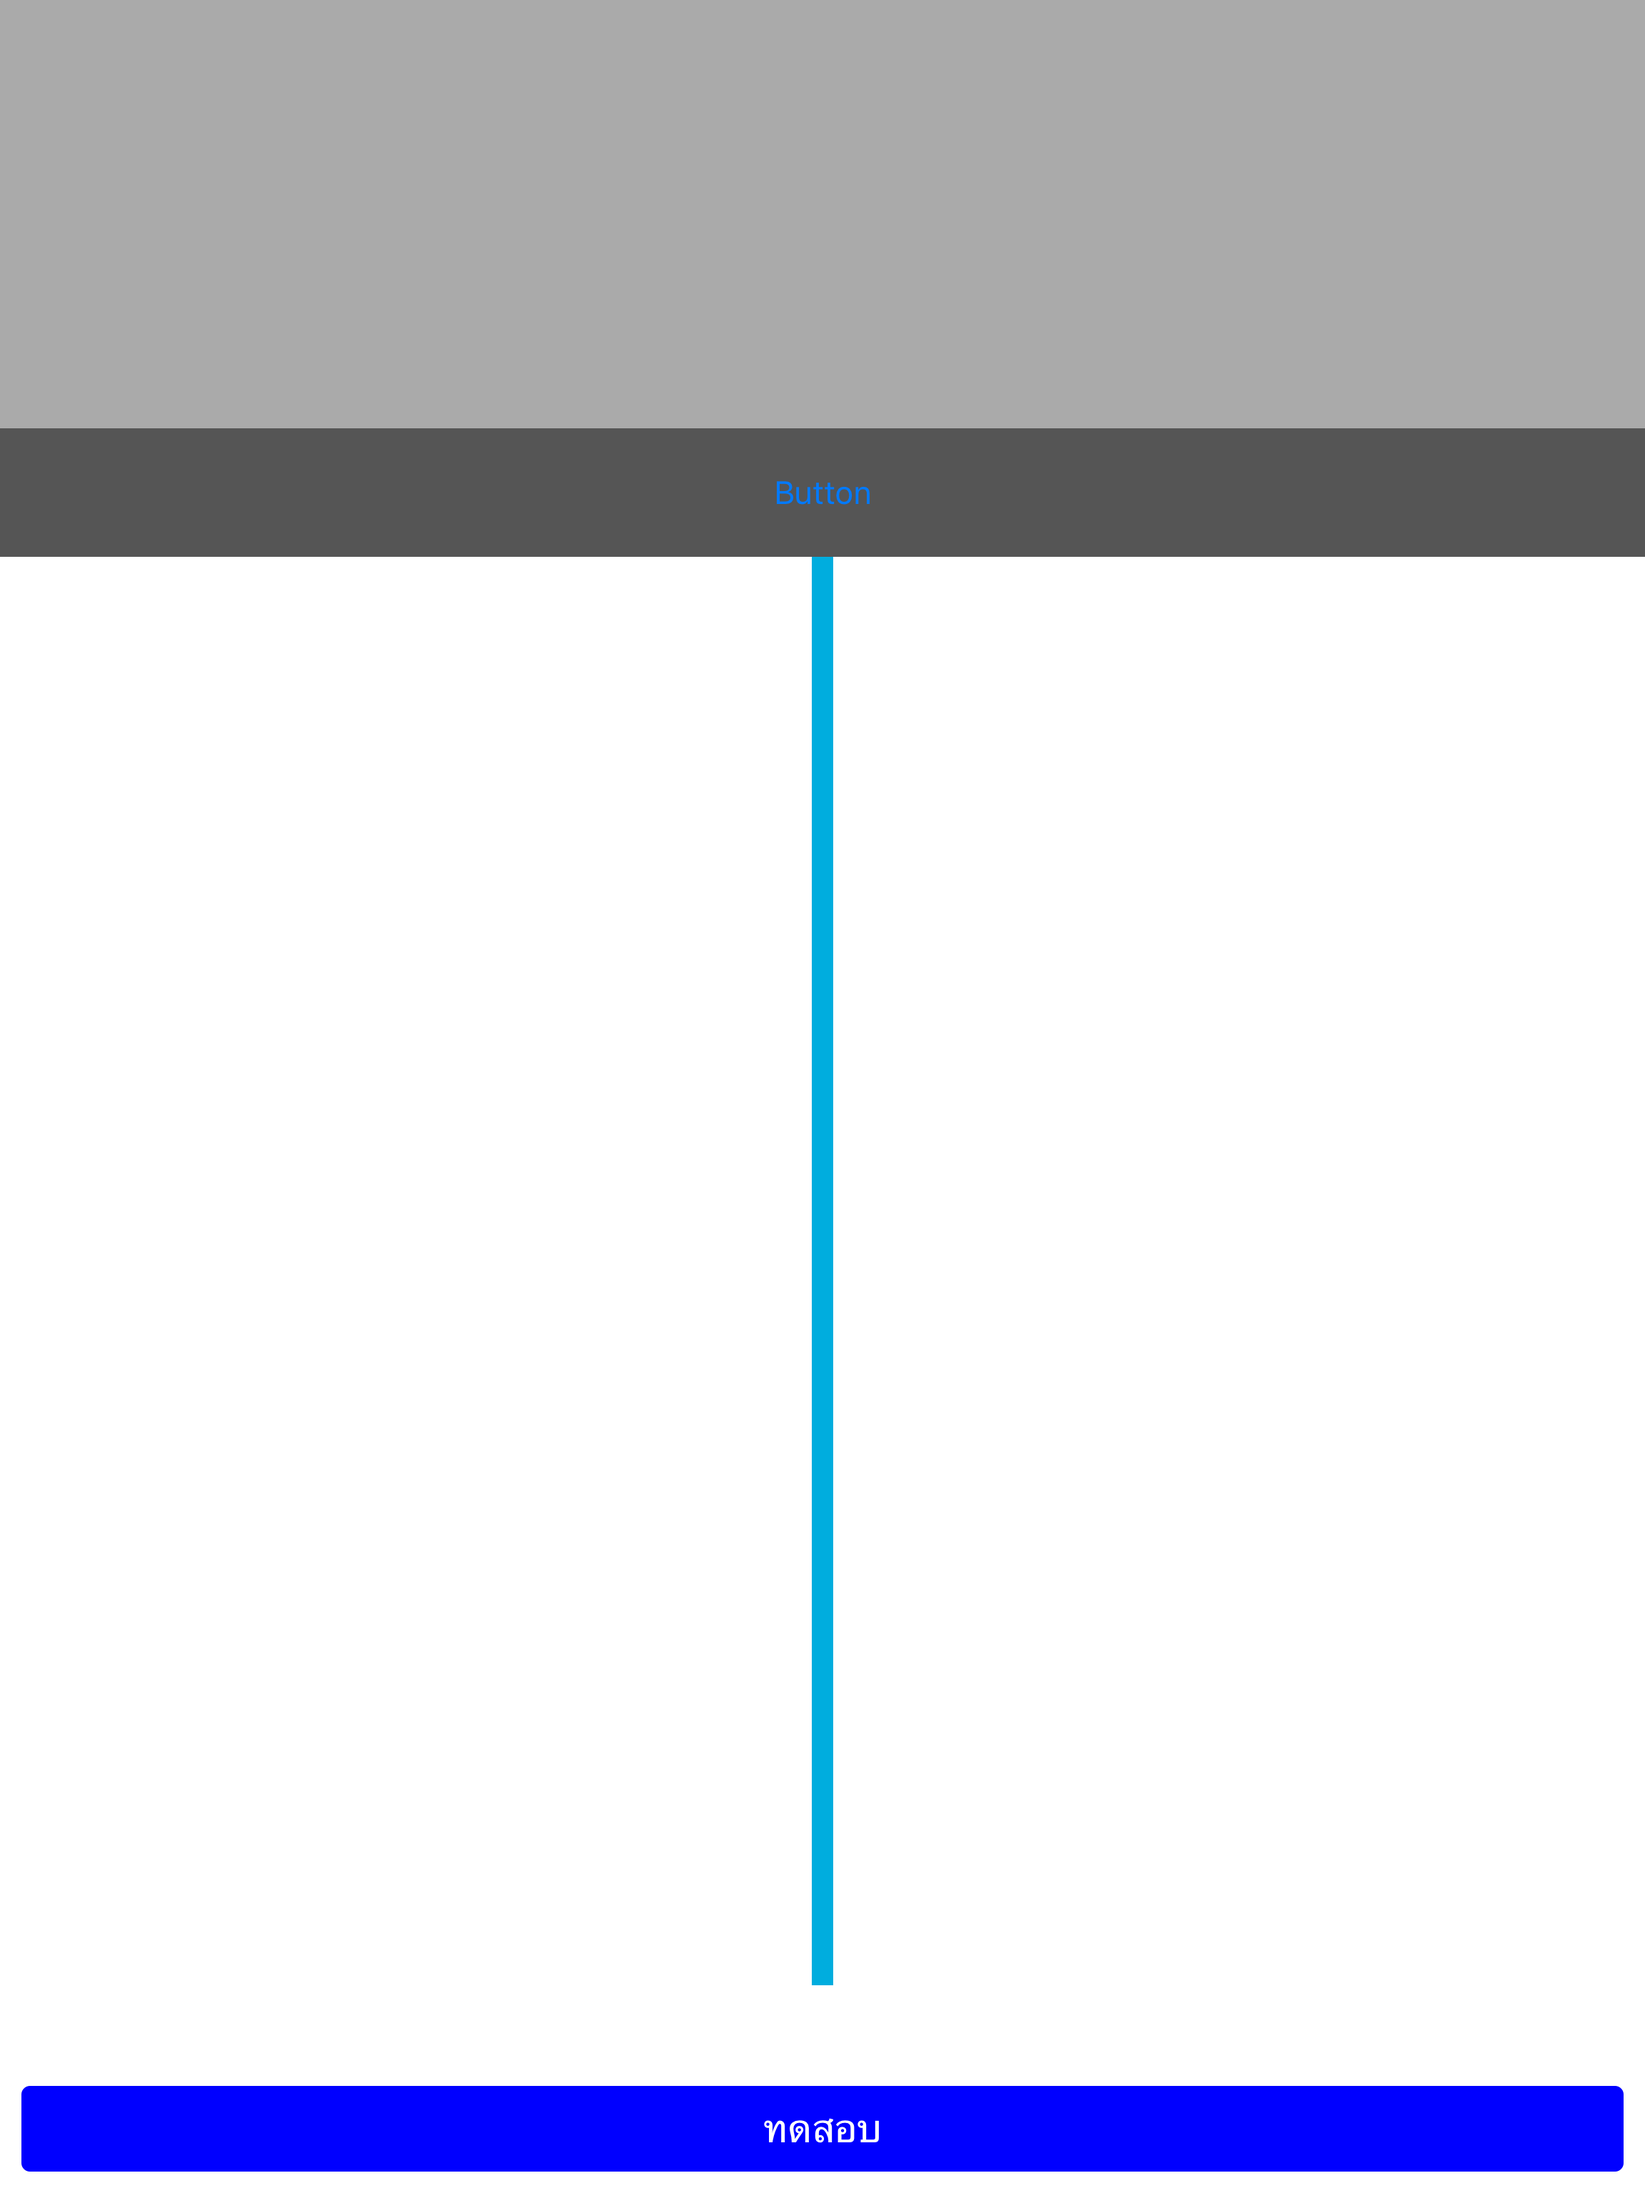
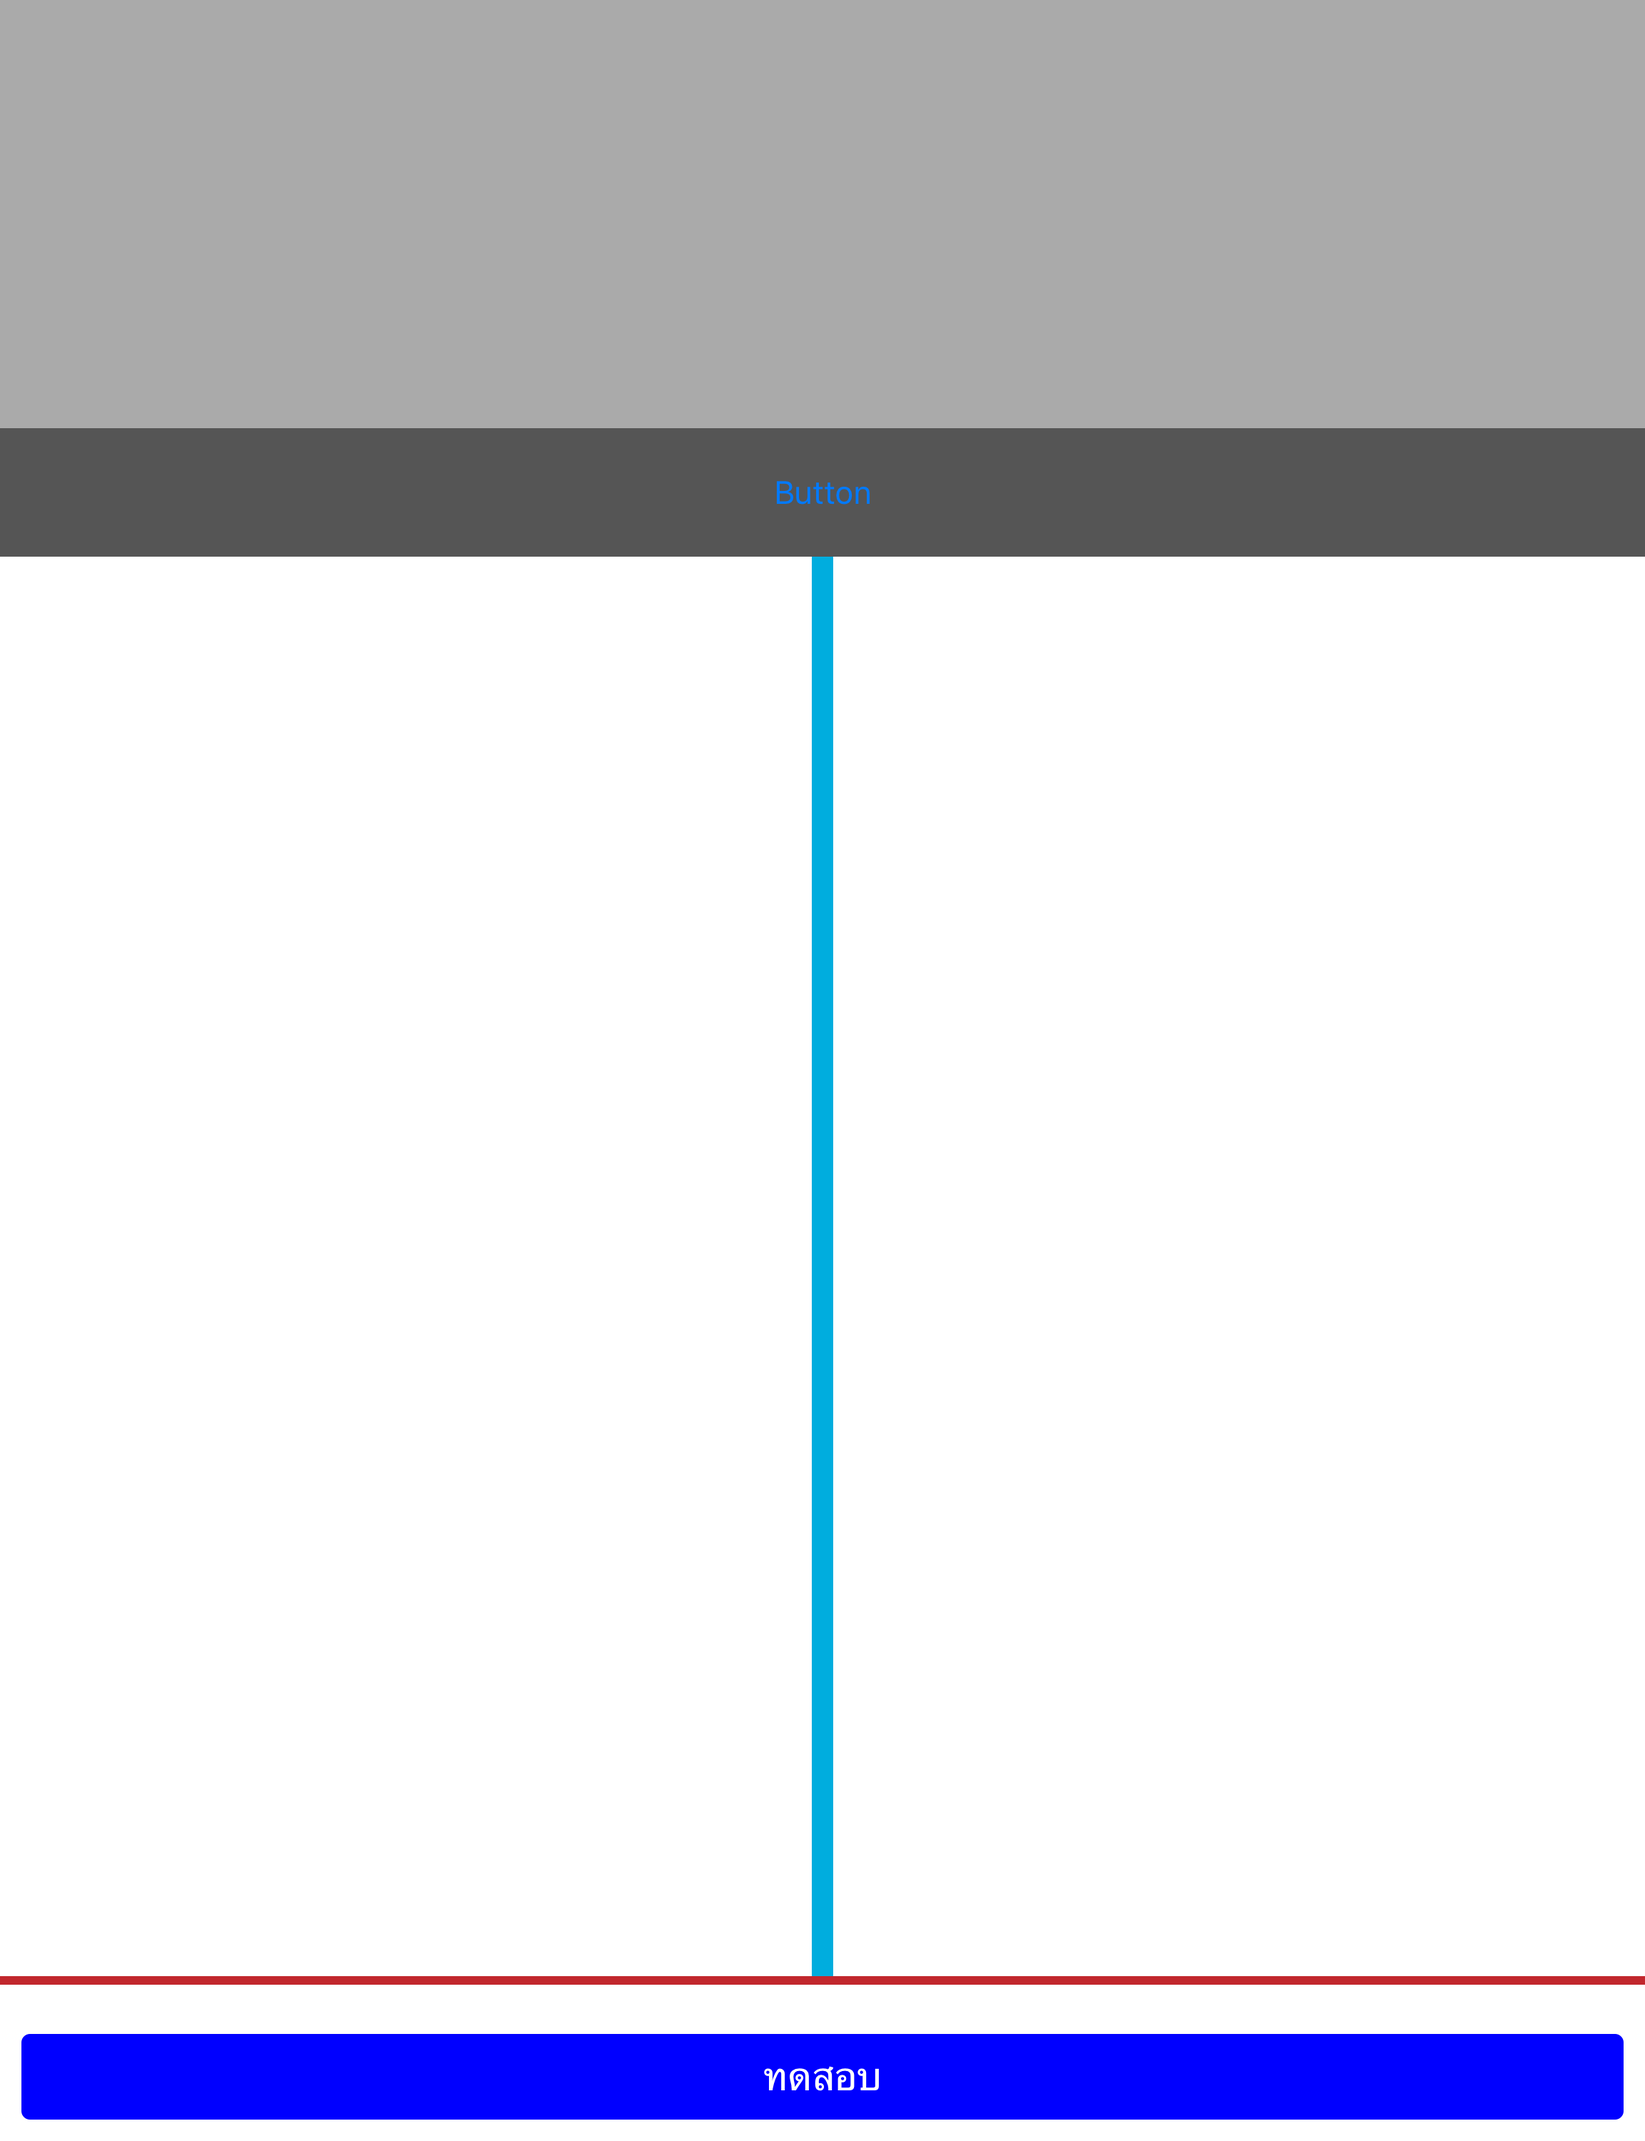
Set hright in test to cover verylong view

Changed region(s): [[0.0, 0.186, 1.0, 0.279], [0.0, 0.899, 1.0, 0.93], [0.4688, 0.961, 0.5312, 0.992]]

diff --git a/Reusable Scroll View/Module/ScrollView/ScrollViewControllerTests.swift b/Reusable Scroll View/Module/ScrollView/ScrollViewControllerTests.swift
@@ -20,6 +20,7 @@ class ScrollViewControllerTests: TestCase {
 
             let (parent, _) = traitControllers(device: device, child: vc)
             vc.paymentMethod = .cash
+            parent.view.frame.size.height = 1000
 
             FBSnapshotVerifyView(parent.view, identifier: "\(device)")
         }
